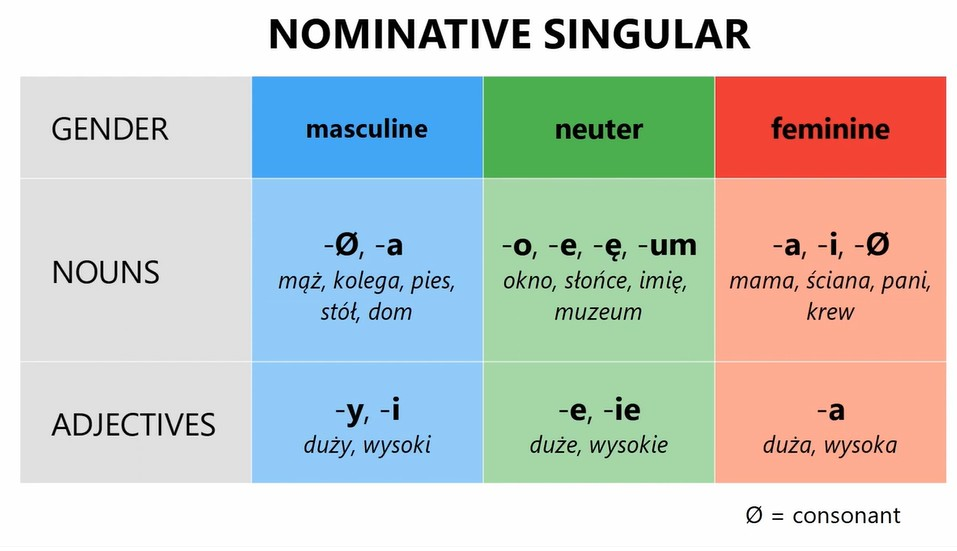
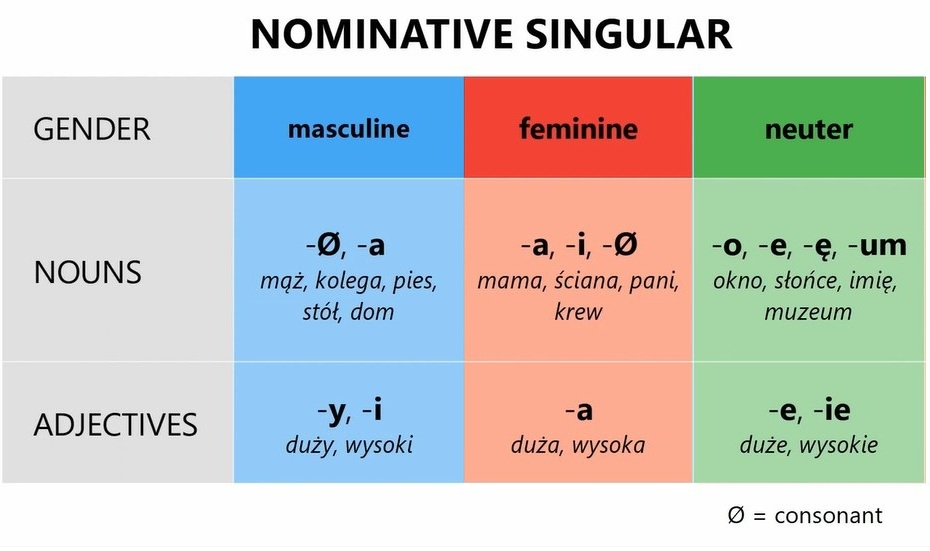
Add InstrumentalCase from Monika Lecture

diff --git a/Lectures/Polish/Polish.html b/Lectures/Polish/Polish.html
@@ -2331,7 +2331,7 @@
           - Also used when talking about interests, for eg. <i>Interesuję się ...</i>. <br>
         </div>
 
-        <div id="Lecture17_18_ChangingEndings" class="sub-heading">How to change endings</div>
+        <div id="Lecture17_18_ChangingEndings" class="sub-heading">How to change endings: From Hurra Po Polsku Book</div>
         <div>
           - Changing endings in Instrumental case:
           <div class="image-block">
@@ -2395,6 +2395,29 @@
             </li>
           </ul>
 
+          <div class="sub-section">
+            - There is an exception to the above rule: In many masculine Polish nouns, a vowel (usually 'e') is dropped when the word is declined into a grammatical case. The chart shows:
+            <div class="image-block">
+              <div class="expand-screenshot-image-btn border border-primary rounded">
+                <span class="btn btn-link">Show Image <img src="./imgs/chevron-expand.svg" alt="Show Image Button"></span>
+              </div>
+              <div class="screenshot-image">
+                <img src="./assets/Lecture17_18/Instrumental_Exception_males.jpg"
+                     width="300"
+                     class="center-block img-fluid"
+                     alt="Image for image"
+                     loading="lazy">
+              </div>
+            </div>
+
+            - Note: <i>minister</i> &rarr; <i>ministrem</i>, <i>lew</i> (lion) &rarr; <i>lwem</i> (The 'e' is dropped). <br>
+            - Note: <i>Niemiec</i> &rarr; <i>Niemcem</i>, <i>pies</i> &rarr; <i>psem</i> (The 'ie' is dropped). <br>
+            - Note: <i>Centrum</i> &rarr; <i>Centrum</i> (e.g., Interesuję się centrum stays exactly as it is) <br>
+            - Note: <i>stół</i> (table) &rarr; <i>stolem</i> (eg. <i>ó</i> is changed to <i>o</i>). <br>
+            - Note: <i>mąż</i> (husband) &rarr; <i>mężem</i> (eg. <i>ą is changed to ę</i>). <br>
+            - But note that these changes don't always happen in all words.
+          </div>
+
           <p class="inline-heading">How is the <i>rodzaj żeński</i> conversion being done</p>: <br>
           - Identify the Gender: The noun is <i>nauczycielka</i>, <i>kobieta</i>, etc. (feminine because it ends in -a ending). So, we look exclusively at the <i>rodzaj żenski </i> column. <br>
           - Change the Noun (rzeczownik row): Feminine nouns take -ą endings.
@@ -2427,7 +2450,7 @@
             Why is <i>Ona jest sympatyczną panią</i> using rules from żenski column but <i>Kasia jest sympatycznym dzieckiem</i> using rules from nijaki? Shouldn't they both be zenski? <br>
 
             Answer: <br>
-            - It is completely natural to look at a girl named Kasia and think, "Feminine rules must apply here.". However, the reason they are different comes down to a golden rule of the Polish
+            - It is completely natural to look at a girl named Kasia and think, "Feminine rules must apply here." However, the reason they are different comes down to a golden rule of the Polish
             language: Grammatical gender always trumps biological gender. <br>
             - When you choose an ending, you aren't looking at the real-world gender of the person; you are looking strictly at the <i>inherent grammatical gender of the noun word</i> you are using.
 
@@ -2443,6 +2466,80 @@
             - Hence even when talking about a girl, if the noun you choose is grammatically neuter (dziecko), the grammar rules of the rodzaj nijaki column take over completely. <br>
             - Another Example: Think of the word <i>osoba</i> (person). Grammatically, <i>osoba</i> is a feminine noun because it ends in -a. If you say "Tom is a nice person," Tom is biologically
             male, but because <i>osoba</i> is a feminine word, you must use feminine endings:  <i>Tom jest sympatyczną osobą.</i> (Using the feminine column rules, even though Tom is a man!)
+          </div>
+
+
+          <div class="sub-section">
+            Question: <br>
+            Explain the difference between the three sentences and why they are using different endings: <br>
+            a) Pan Kowalski jest sympatyczny. <br>
+            b) Jan Kowalski jest sympatycznym Polakiem. <br>
+            c) Pan Kowalski to sympatyczny Polak. <br>
+
+            <p class="inline-heading">Cheat Sheet</p>: <br>
+            a) Pan Kowalski jest sympatyczny: Subject + <i>jest</i> + Adjective &rarr; Nominative (sympatyczny) <br>
+            b) Jan Kowalski jest sympatycznym Polakiem: Subject + <i>jest</i> + (Adjective) + Noun &rarr; Instrumental (On jest sympatycznym Polakiem / On jest Polakiem) <br>
+            c) Pan Kowalski to sympatyczny Polak. Subject + <i>to</i> + (Adjective) + Noun &rarr; Nominative (Pan Kowalski to sympatyczny Polak / Pan Kowalski to Polak) <br>
+
+            <br>
+
+            Answer: <br>
+            - The difference between these three sentences comes down to one of the most fundamental rules in Polish grammar: how you choose to link a subject to its description. <br>
+            - Depending on the words you use and whether a noun is present, the sentence will either use the Nominative case (the basic dictionary form) or the Instrumental case. <br>
+
+            a) <i>Pan Kowalski jest sympatyczny.</i>:
+            <ul>
+              <li>
+                The Case Used: Nominative (Mianownik) - basic masculine adjective ending in -y.
+              </li>
+              <li>
+                Why? You are using the verb <i>jest</i> (is), but it is followed only by an adjective, with no noun after it.
+              </li>
+              <li>
+                The Rule: In Polish, when you say "Someone is [adjective]" without a noun at the end, the adjective stays in the Nominative case, simply changing its gender to match the subject.
+              </li>
+              <li>
+                Eg. <i>On jest wysoki.</i> (Masculine Nominative) <br>
+                Eg. <i>Ona jest miła.</i>  (Feminine Nominative)
+              </li>
+            </ul>
+
+            b) <i>Jan Kowalski jest sympatycznym Polakiem.</i> <br>
+            - This is the happy path Instrumental Case that we have looked at above. <br>
+
+            <br>
+
+            c) <i>Pan Kowalski to sympatyczny Polak.</i> <br>
+            <ul>
+              <li>
+                The Case Used: Nominative (Mianownik) - adjective ends in -y, noun stays as Polak.
+              </li>
+              <li>
+                Why? Instead of the verb <i>jest</i>, this sentence uses the little shortcut word to to mean "is".
+              </li>
+              <li>
+                The Rule: <i>To</i> never changes the grammatical case. Whatever comes after to must stay in the basic Nominative case, even if a noun is present.
+              </li>
+              <li>
+                Example: <i>Marek to dobry nauczyciel</i> vs. <i>Marek jest dobrym nauczycielem</i>.
+              </li>
+            </ul>
+          </div>
+        </div>
+
+        <div class="sub-heading">Polish With Monika Lecture</div>
+        <div>
+          <div class="image-block">
+            <div class="expand-screenshot-image-btn border border-primary rounded">
+              <span class="btn btn-link">Show Image <img src="./imgs/chevron-expand.svg" alt="Show Image Button"></span>
+            </div>
+            <div class="screenshot-image">
+              <img src="./assets/Lecture17_18/InstrumentalCase_WhenIsItsUsed.png"
+                   width="1400"
+                   class="center-block img-fluid"
+                   alt="Example1"
+                   loading="lazy">
+            </div>
           </div>
         </div>
       </div>